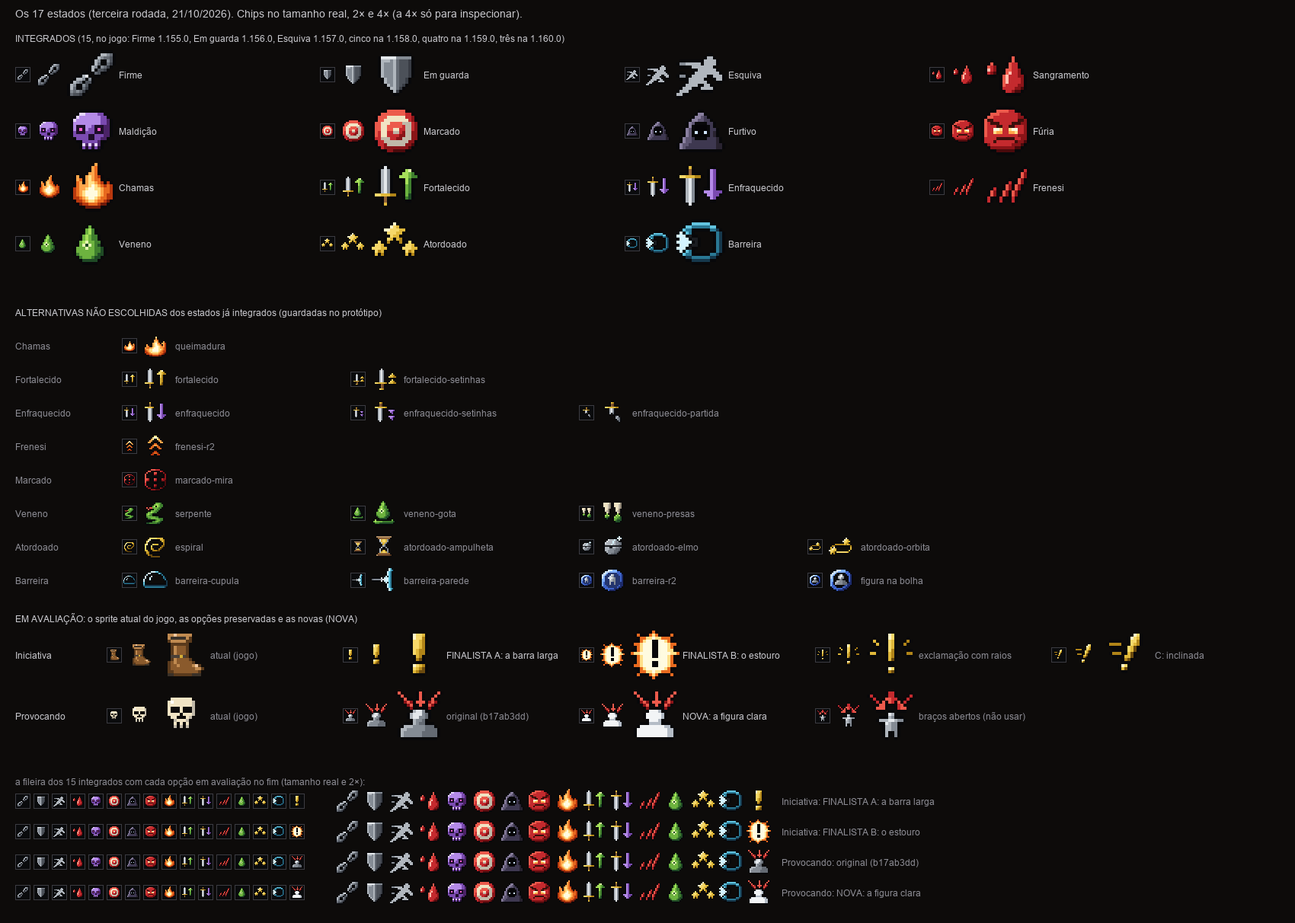
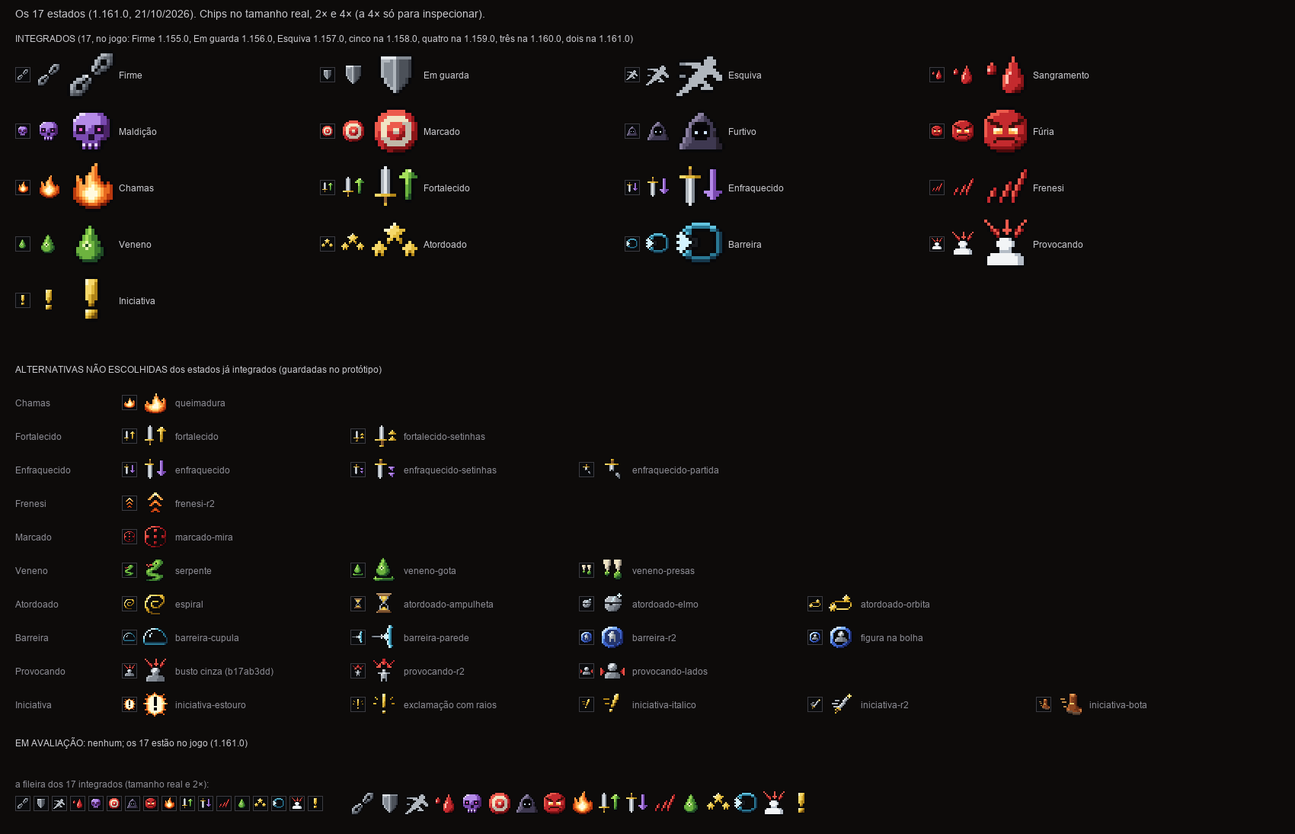
Provocando e Iniciativa no jogo (1.161.0): os 17 estados com ícone próprio
Entram sem retoque, cada um só no seu estado (o ESTADO de icones.js): o Provocando com a figura
branca do 9e4ec85a e as três setas da composição original, e a Iniciativa A da terceira rodada, a
exclamação de barra larga (69c6ded3; o estouro B fica como alternativa não escolhida). A caveira e a
bota ficam nos outros usos; regras, valores, durações, textos, medidas e interações não mudam.

As fontes vão para ferramentas/arte/aseprite/estado-provocando/ e estado-iniciativa/; o exportador
grava o 16 e o @2x idênticos, byte a byte, aos aprovados, e o "todas --conferir" dá tudo igual.

Conferido no jogo a 1920×945 com os arquivos de produção e saves temporários: o chip do Provocando no
esqueleto do Necromante, o selo dele pela Ordem da Fera do urso (junto do Em guarda), o chip da
Iniciativa e o selo da surpresa numa emboscada real do jogador (o cenário já existente; o roteiro só
clica em "Começar a luta"). Nada foi acrescentado ao jogo para fotografar.

Os 17 estados concluídos: 17 no catálogo, 17 no ESTADO, todos com o 16 e o @2x. A prancha final
estados-final.png mostra os 17 identificados (versão e origem) em tamanho real, 2× e 8×; a geral
mostra os integrados e as alternativas guardadas. Plano 23, continuidade e LEIA-MEs atualizados.
Testes (627), gabarito, pyflakes (o aviso conhecido) e fumaça passaram.

diff --git a/rpg/web/static/icones.js b/rpg/web/static/icones.js
@@ -31,7 +31,7 @@ const Icones = (() => {
     "contador-flechas": [16], "estado-firme": [16], "estado-guarda": [16], "estado-esquiva": [16],
     "estado-sangramento": [16], "estado-maldito": [16], "estado-marcado": [16], "estado-furtivo": [16], "estado-furia": [16],
     "estado-queimadura": [16], "estado-fortalecido": [16], "estado-enfraquecido": [16], "estado-frenesi": [16],
-    "estado-veneno": [16], "estado-atordoado": [16], "estado-barreira": [16],
+    "estado-veneno": [16], "estado-atordoado": [16], "estado-barreira": [16], "estado-provocando": [16], "estado-iniciativa": [16],
     "cota": [32, 40, 48, 64], "elmo": [32, 40, 48, 64], "escudo": [32, 40, 48, 64], "espada": [32, 40, 48, 64], "lugar-caverna": [32, 40],
     "lugar-cidadela": [32, 40], "lugar-floresta": [32, 40], "lugar-montanha": [32, 40], "lugar-pantano": [32, 40],
     "lugar-planicie": [32, 40], "lugar-ruinas": [32, 40], "lugar-vila": [32, 40], "maca": [32, 40, 48, 64],
@@ -166,17 +166,18 @@ const Icones = (() => {
   // duas línguas menores), o Fortalecido (a espada em pé e a seta verde subindo), o Enfraquecido (a espada para baixo e
   // a seta roxa descendo) e o Frenesi (as três garras vermelhas crescentes). Desde a 1.160.0: o Veneno (a gota verde
   // com o reflexo e a bolha), o Atordoado (três estrelinhas em arco, também no congelado) e a Barreira (a película de
-  // energia com o golpe estourando na borda). Só os estados: o "cadeado" do jogo fica nos outros papéis (o talento
-  // Armadilheiro, o bloqueio de vida, os motivos do mercado, o Salvar), o "escudo" no Erguer Escudo, nos talentos e no
-  // espaço vazio, a "folha" na Fúria da Natureza, no Pés Leves, no Antídoto e na Agilidade das celebrações, e a "gota",
-  // a "gota_roxa", a "gota_verde", a "flecha", o "olho", o "machado", a "chama", a "espada", o "osso", o "raio", a
-  // "estrela" e o "escudo_azul" nas habilidades, nos talentos, nos ferimentos, nos serviços e nos outros usos; os
-  // estados sem desenho aqui ficam com o sprite do catálogo do motor
+  // energia com o golpe estourando na borda). Desde a 1.161.0: o Provocando (a figura branca com as três setas
+  // vermelhas convergindo) e a Iniciativa (a exclamação dourada de barra larga). Só os estados: o "cadeado" do jogo fica
+  // nos outros papéis (o talento Armadilheiro, o bloqueio de vida, os motivos do mercado, o Salvar), o "escudo" no
+  // Erguer Escudo, nos talentos e no espaço vazio, a "folha" na Fúria da Natureza, no Pés Leves, no Antídoto e na
+  // Agilidade das celebrações, e a "gota", a "gota_roxa", a "gota_verde", a "flecha", o "olho", o "machado", a "chama",
+  // a "espada", o "osso", o "raio", a "estrela", o "escudo_azul", a "caveira" e a "bota" nas habilidades, nos talentos,
+  // nos ferimentos, nos serviços e nos outros usos
   const ESTADO = { firme: "estado-firme", guarda: "estado-guarda", esquiva: "estado-esquiva", sangramento: "estado-sangramento",
                    maldito: "estado-maldito", marcado: "estado-marcado", furtivo: "estado-furtivo", furia: "estado-furia",
                    queimadura: "estado-queimadura", fortalecido: "estado-fortalecido", enfraquecido: "estado-enfraquecido",
                    frenesi: "estado-frenesi", veneno: "estado-veneno", atordoado: "estado-atordoado",
-                   barreira: "estado-barreira" };
+                   barreira: "estado-barreira", provocando: "estado-provocando", iniciativa: "estado-iniciativa" };
 
   /** O arquivo de `peca` para mostrar em `lado` px: o tamanho igual ou o mais perto; maior que o maior, o dobro dele. */
   function arquivos(peca, lado) {

diff --git a/ferramentas/prototipos/hud/itens-lote-noite/estados_restantes/auxiliares/prancha.py b/ferramentas/prototipos/hud/itens-lote-noite/estados_restantes/auxiliares/prancha.py
@@ -11,7 +11,7 @@ import sys
 
 from PIL import Image, ImageDraw
 
-from comum import (ATUAL, CARVAO, FINAIS, LOTE, LOTES, TEXTO, TEXTO2, TITULO, abre, amplia, final, fonte,
+from comum import (ATUAL, CARVAO, FINAIS, STATIC, LOTE, LOTES, TEXTO, TEXTO2, TITULO, abre, amplia, final, fonte,
                    grade_px, proposta, sprite)
 
 CHIP = (10, 11, 13, 255)
@@ -26,7 +26,8 @@ def chip(out, d, im, x, y, borda=(60, 60, 66, 255)):
 NOVAS = ("gota", "r2")
 INTEGRADOS = ("sangramento", "maldito", "marcado", "furtivo", "furia",   # no jogo desde a 1.158.0
               "queimadura", "fortalecido", "enfraquecido", "frenesi",   # desde a 1.159.0
-              "veneno", "atordoado", "barreira")   # desde a 1.160.0   # as alternativas da segunda rodada (21/10/2026): estado-<id>-gota, estado-<id>-r2
+              "veneno", "atordoado", "barreira",   # desde a 1.160.0
+              "provocando", "iniciativa")   # desde a 1.161.0   # as alternativas da segunda rodada (21/10/2026): estado-<id>-gota, estado-<id>-r2
 
 
 def cartas(n, pre=""):
@@ -107,6 +108,11 @@ def folha_lote(n, pre=""):
     print(f"{pre}lote{n}.png", out.size)
 
 
+# no protótipo, estes nomes são candidatos antigos (no jogo, os arquivos com o mesmo nome são os aprovados)
+NOMES_PROTOTIPO = {"estado-veneno": "serpente", "estado-atordoado": "espiral", "estado-barreira": "figura na bolha",
+                   "estado-provocando": "busto cinza (b17ab3dd)", "estado-iniciativa": "exclamação com raios"}
+
+
 def folha_geral():
     """geral.png (atualizada na terceira rodada): os 17 estados em três grupos — os integrados (no jogo), as alternativas
     não escolhidas dos estados já resolvidos e as propostas em avaliação (os candidatos novos e os preservados)."""
@@ -119,19 +125,18 @@ def folha_geral():
                       ("Atordoado", ["estado-atordoado", "estado-atordoado-ampulheta", "estado-atordoado-elmo",
                                      "estado-atordoado-orbita"]),
                       ("Barreira", ["estado-barreira-cupula", "estado-barreira-parede", "estado-barreira-r2",
-                                    "estado-barreira"])]
-    avaliacao = [("Iniciativa", [("estado-iniciativa-cunha", "FINALISTA A: a barra larga"),
-                                 ("estado-iniciativa-estouro", "FINALISTA B: o estouro"),
-                                 ("estado-iniciativa", "exclamação com raios"), ("estado-iniciativa-italico", "C: inclinada")]),
-                 ("Provocando", [("estado-provocando", "original (b17ab3dd)"), ("estado-provocando-claro", "NOVA: a figura clara"),
-                                 ("estado-provocando-r2", "braços abertos (não usar)")])]
+                                    "estado-barreira"]),
+                      ("Provocando", ["estado-provocando", "estado-provocando-r2", "estado-provocando-lados"]),
+                      ("Iniciativa", ["estado-iniciativa-estouro", "estado-iniciativa", "estado-iniciativa-italico",
+                                      "estado-iniciativa-r2", "estado-iniciativa-bota"])]
+    avaliacao = []   # desde a 1.161.0 os 17 estão no jogo: nada em avaliação
     out = Image.new("RGBA", (1700, 2600), CARVAO)
     d = ImageDraw.Draw(out)
-    d.text((20, 10), "Os 17 estados (terceira rodada, 21/10/2026). Chips no tamanho real, 2× e 4× (a 4× só para inspecionar).",
+    d.text((20, 10), "Os 17 estados (1.161.0, 21/10/2026). Chips no tamanho real, 2× e 4× (a 4× só para inspecionar).",
            fill=TEXTO, font=f)
     y = 44
     d.text((20, y), f"INTEGRADOS ({len(integrados)}, no jogo: Firme 1.155.0, Em guarda 1.156.0, Esquiva 1.157.0, "
-                    "cinco na 1.158.0, quatro na 1.159.0, três na 1.160.0)", fill=TEXTO, font=f2)
+                    "cinco na 1.158.0, quatro na 1.159.0, três na 1.160.0, dois na 1.161.0)", fill=TEXTO, font=f2)
     y += 44
     for j, (t, im) in enumerate(integrados):
         x, yy = 20 + (j % 4) * 400, y + (j // 4) * 74
@@ -146,14 +151,15 @@ def folha_geral():
         d.text((20, y + 4), t, fill=TEXTO2, font=f2)
         for j, ident in enumerate(ids):
             im, x = proposta(ident), 160 + j * 300
-            if ident in ("estado-veneno", "estado-atordoado", "estado-barreira"):
-                ident = {"estado-veneno": "serpente", "estado-atordoado": "espiral", "estado-barreira": "figura na bolha"}[ident]
+            if ident in NOMES_PROTOTIPO:
+                ident = NOMES_PROTOTIPO[ident]
             chip(out, d, im, x, y)
             out.alpha_composite(amplia(im, 2), (x + 28, y - 6))
             d.text((x + 70, y + 4), ident.replace("estado-", ""), fill=TEXTO2, font=f2)
         y += 44
     y += 10
-    d.text((20, y), "EM AVALIAÇÃO: o sprite atual do jogo, as opções preservadas e as novas (NOVA)", fill=TEXTO, font=f2)
+    d.text((20, y), "EM AVALIAÇÃO: " + ("nenhum; os 17 estão no jogo (1.161.0)" if not avaliacao else
+                    "o sprite atual do jogo, as opções preservadas e as novas (NOVA)"), fill=TEXTO, font=f2)
     y += 44
     for t, ops in avaliacao:
         k = next(c for c, tt in TITULO.items() if tt == t)
@@ -167,9 +173,14 @@ def folha_geral():
             d.text((x + 136, y + 4), rot[:26], fill=TEXTO if rot.startswith(("NOVA", "FINALISTA")) else TEXTO2, font=f2)
         y += 80
     y += 10
-    d.text((20, y), f"a fileira dos {len(integrados)} integrados com cada opção em avaliação no fim (tamanho real e 2×):",
-           fill=TEXTO2, font=f2)
+    d.text((20, y), f"a fileira dos {len(integrados)} integrados (tamanho real e 2×)" + (", com cada opção em avaliação "
+                    "no fim:" if avaliacao else ":"), fill=TEXTO2, font=f2)
     y += 22
+    if not avaliacao:
+        for j, (_, im) in enumerate(integrados):
+            chip(out, d, im, 20 + j * 24, y)
+            out.alpha_composite(amplia(im, 2), (460 + j * 36, y - 6))
+        y += 40
     for t, ops in avaliacao:
         for ident, rot in ops:
             if not rot.startswith(("NOVA", "FINALISTA", "original")):
@@ -209,6 +220,12 @@ INTEGRACOES = {
                ("Barreira ao lado do Em guarda", "rodada3-barreira/barreira-heroi-guarda", "chip-heroi-barreira-guarda")],
         selos=[("Veneno (Flecha Envenenada)", "veneno"), ("Atordoado (Prisão de Gelo, congelado)", "atordoado"),
                ("Barreira (Barreira Arcana)", "barreira")]),
+    "1.161.0": dict(
+        titulo="Provocando e Iniciativa", sem_selo="os dois têm selo",
+        pares=[("Provocando (o esqueleto do Necromante)", "lote5/servo-provocando", "chip-servo-provocando"),
+               ("Iniciativa", "lote6/heroi-iniciativa", "chip-heroi-iniciativa")],
+        selos=[("Provocando (a Ordem da Fera do urso, com o Em guarda)", "provocando"),
+               ("Iniciativa (a emboscada do jogador, ao vivo)", "iniciativa")]),
 }
 
 RODADA3 = {   # a terceira rodada (21/10/2026): o estado, as opções (nome do arquivo, rótulo) e a pasta das fotos
@@ -283,6 +300,58 @@ def folha_estado(k):
     print(f"rodada3-{k}.png", out.size)
 
 
+ORIGEM = {   # os 17 integrados: versão, de onde veio e o que é
+    "firme": ("1.155.0", "R2 (bc849647)", "a corrente rompida"), "guarda": ("1.156.0", "G1 (118725b6)", "o escudo de ferro"),
+    "esquiva": ("1.157.0", "E6 (df6a433d)", "a figura em movimento"),
+    "sangramento": ("1.158.0", "b17ab3dd", "as duas gotas"), "maldito": ("1.158.0", "b17ab3dd", "a caveira roxa"),
+    "marcado": ("1.158.0", "b17ab3dd", "o alvo de anéis"), "furtivo": ("1.158.0", "b17ab3dd", "o capuz"),
+    "furia": ("1.158.0", "b17ab3dd", "o rosto de raiva"),
+    "queimadura": ("1.159.0", "R2 (805c238d)", "a chama dominante"), "fortalecido": ("1.159.0", "R2 (39f85d92)", "espada e seta verde"),
+    "enfraquecido": ("1.159.0", "R2 (805c238d)", "espada e seta roxa"), "frenesi": ("1.159.0", "b17ab3dd", "as três garras"),
+    "veneno": ("1.160.0", "rodada 3 (69c6ded3)", "a gota verde"), "atordoado": ("1.160.0", "rodada 3 (33f97dde)", "as três estrelinhas"),
+    "barreira": ("1.160.0", "rodada 3 (33f97dde)", "o golpe na película"),
+    "provocando": ("1.161.0", "ajuste (9e4ec85a)", "a figura e as setas"), "iniciativa": ("1.161.0", "rodada 3 (69c6ded3)", "a exclamação larga"),
+}
+
+
+def folha_final():
+    """estados-final.png: os 17 ícones de estado efetivamente no jogo (rpg/web/static/hud/icones/estado-<id>-16.png),
+    identificados pelo nome, a versão e a origem; em chips no tamanho real, a 2× e a 8× sem suavização, e a fileira dos 17."""
+    import re
+    texto = (STATIC / "icones.js").read_text(encoding="utf-8")
+    papel = dict(re.findall(r'(\w+): "estado-([\w-]+)"', re.search(r"const ESTADO = \{(.*?)\};", texto, re.S).group(1)))
+    assert sorted(papel) == sorted(ORIGEM) and all(papel[k] == k for k in papel), papel
+    f, f2 = fonte(14), fonte(12)
+    ids = [k for k, _ in FINAIS] + list(INTEGRADOS)
+    out = Image.new("RGBA", (1600, 1400), CARVAO)
+    d = ImageDraw.Draw(out)
+    d.text((20, 10), f"Os {len(ids)} estados no jogo (1.161.0): os arquivos de produção, pelo papel ESTADO de icones.js. "
+                     "Chip no tamanho real, 2× e 8× sem suavização.", fill=TEXTO, font=f)
+    y = 46
+    for j, k in enumerate(ids):
+        im = final(k)
+        x, yy = 20 + (j % 3) * 520, y + (j // 3) * 150
+        chip(out, d, im, x, yy + 40)
+        out.alpha_composite(amplia(im, 2), (x + 28, yy + 34))
+        out.alpha_composite(grade_px(im, 8), (x + 72, yy))
+        v, o, c = ORIGEM[k]
+        nome = dict(FINAIS).get(k) or TITULO[k]
+        d.text((x + 72 + 128 + 14, yy + 20), nome, fill=TEXTO, font=f)
+        d.text((x + 72 + 128 + 14, yy + 44), c, fill=TEXTO2, font=f2)
+        d.text((x + 72 + 128 + 14, yy + 64), f"{v} · {o}", fill=TEXTO2, font=f2)
+        d.text((x + 72 + 128 + 14, yy + 84), f"estado-{k}-16.png", fill=TEXTO2, font=f2)
+    y += ((len(ids) + 2) // 3) * 150 + 10
+    d.text((20, y), "a fileira dos 17, como numa carta cheia (tamanho real em chips e 2×):", fill=TEXTO2, font=f2)
+    y += 24
+    for j, k in enumerate(ids):
+        chip(out, d, final(k), 20 + j * 24, y)
+        out.alpha_composite(amplia(final(k), 2), (20 + j * 40, y + 32))
+    y += 80
+    out = out.crop((0, 0, 1600, y))
+    out.save(LOTE / "estados-final.png")
+    print("estados-final.png", out.size)
+
+
 def folha_integracao(versao="1.158.0"):
     """integracao-<versão>.png: os aprovados no jogo, antes (o sprite) × depois (os arquivos de produção), na carta a
     1920×945 com os mesmos dados (as fotos "atual" dos lotes × capturas/integracao-<versão>/), e os selos de chegada."""
@@ -347,7 +416,9 @@ def folha_gira():
 
 
 if __name__ == "__main__":
-    if sys.argv[1] == "rodada3":   # rodada3 <estado>
+    if sys.argv[1] == "final":
+        folha_final()
+    elif sys.argv[1] == "rodada3":   # rodada3 <estado>
         folha_estado(sys.argv[2])
     elif sys.argv[1] == "gira":
         folha_gira()

diff --git a/rpg/__init__.py b/rpg/__init__.py
@@ -1,3 +1,3 @@
 """The Unquiet (antes Crônicas da Fenda) — um RPG de texto offline com eventos procedurais."""
 
-__version__ = "1.160.0"
+__version__ = "1.161.0"

diff --git a/roadmapIDEIAS/23-PLANO-DE-ARTE-INTERFACE-E-COMBATE.md b/roadmapIDEIAS/23-PLANO-DE-ARTE-INTERFACE-E-COMBATE.md
@@ -852,11 +852,11 @@ talentos com o mesmo `icone`, e outros usos na interface): trocar o desenho de u
 | Fortalecido (`fortalecido`, +) | dano causado +v% | `estado-fortalecido` (próprio) | nenhum (a `espada` ficou em: Investida; Contra-ataque, Golpe Brutal; o elemento físico e outros) | **final** (1.159.0; a R2 do `39f85d92`, sem retoque) |
 | Fúria (`furia`, +) | dano causado +v% (soma com o Fortalecido) | `estado-furia` (próprio) | nenhum (o `machado` ficou em: Redemoinho) | **final** (1.158.0; a proposta do `b17ab3dd`, sem retoque) |
 | Frenesi (`frenesi`, +) | cada abate soma dano até o fim da luta | `estado-frenesi` (próprio) | nenhum (o `raio` ficou em: Julgamento Divino) | **final** (1.159.0; as garras do `b17ab3dd`, sem retoque) |
-| Iniciativa (`iniciativa`, +) | o primeiro golpe deste turno sai +v% mais forte | `bota` | a reserva dos pés (a bota de couro) | proposta: o candidato do `b17ab3dd` e a alternativa da rodada 2 (`estados_restantes/`, 21/10), em avaliação |
+| Iniciativa (`iniciativa`, +) | o primeiro golpe deste turno sai +v% mais forte | `estado-iniciativa` (próprio) | nenhum (a `bota` ficou em: a reserva dos pés (a bota de couro)) | **final** (1.161.0; a barra larga da terceira rodada, `69c6ded3`; o estouro guardado como não escolhido, sem retoque) |
 | Esquiva (`esquiva`, +) | +v na chance de esquiva, até o teto (Passo Ágil: +30% por 2 turnos; Desaparecer: +50% por 1) | `estado-esquiva` (próprio) | nenhum (a `folha` ficou na Fúria da Natureza, no Pés Leves, no Antídoto e na Agilidade das celebrações e do Inventário) | **final** (a E6 corrigida, 1.157.0; a origem e a licença da referência pendentes; as tentativas E1 a E5 no protótipo) |
 | Barreira (`barreira`, +) | absorve v de dano | `estado-barreira` (próprio) | nenhum (o `escudo_azul` ficou em: Barreira Arcana) | **final** (1.160.0; o golpe na película da terceira rodada, `33f97dde`; a cúpula e a parede guardadas como não escolhidas, sem retoque) |
 | Furtivo (`furtivo`, +) | o próximo ataque é crítico garantido | `estado-furtivo` (próprio) | nenhum (o `olho` ficou em: Marcar Presa; Canalização, Olho de Águia; a névoa e outros) | **final** (1.158.0; a proposta do `b17ab3dd`, sem retoque) |
-| Provocando (`provocando`, +) | os inimigos atacam ele | `caveira` | Execução, Fúria Cega; Assassino, Colheita, Golpe Sombrio, Imortal, Legião de Ossos, Rei dos Mortos; derrota, fome e outros | proposta: o candidato do `b17ab3dd` e a alternativa da rodada 2 (`estados_restantes/`, 21/10), em avaliação |
+| Provocando (`provocando`, +) | os inimigos atacam ele | `estado-provocando` (próprio) | nenhum (a `caveira` ficou em: Execução, Fúria Cega; Assassino, Colheita, Golpe Sombrio, Imortal, Legião de Ossos, Rei dos Mortos; derrota, fome e outros) | **final** (1.161.0; o busto do `b17ab3dd` com a figura branca do `9e4ec85a`, sem retoque) |
 | Firme (`firme`, +) | depois de um atordoamento ou congelamento, não pode ser atordoado nem congelado de novo naquele turno | `estado-firme` (próprio) | nenhum (o `cadeado` ficou nos outros papéis) | **final** (R2, 1.155.0) |
 | Veneno (`veneno`, −) | dano por turno | `estado-veneno` (próprio) | nenhum (a `gota_verde` ficou em: Flecha Envenenada; os serviços) | **final** (1.160.0; a gota sem a poça da terceira rodada, `69c6ded3`, sem retoque) |
 | Sangramento (`sangramento`, −) | dano por turno | `estado-sangramento` (próprio) | nenhum (a `gota` ficou em: Sede de Sangue; Pacto Sombrio, Pontas Venenosas, Sede Insaciável; os ferimentos e os serviços) | **final** (1.158.0; a proposta do `b17ab3dd`, sem retoque) |
@@ -871,7 +871,7 @@ talentos com o mesmo `icone`, e outros usos na interface): trocar o desenho de u
 `geral.png` com os 17, as tentativas guardadas e a avaliação no `LEIA-ME.md` da pasta). **Aprovados por Jean e
 integrados na 1.158.0, sem retoque:** Sangramento, Maldição, Marcado, Furtivo e Fúria (o chip e o selo; o Marcado não
 tem selo de chegada no jogo, porque as duas fontes dele aplicam o estado direto). Os outros nove seguem no protótipo,
-numa segunda rodada de ajustes: as alternativas novas ao lado dos candidatos preservados (as folhas `rodada2-*.png` e a prancha `geral.png`, 21/10/2026), em avaliação. **Integrados na 1.159.0, sem retoque:** as Chamas (R2), o Fortalecido (R2), o Enfraquecido (R2) e o Frenesi (as garras da primeira rodada). O Fortalecido e o Frenesi não têm selo de chegada no jogo (o Grito de Guerra dispensa o selo; o uivo, o grito dos inimigos e o talento aplicam direto). **Integrados na 1.160.0, sem retoque (a terceira rodada):** o Veneno (a gota sem a poça), o Atordoado (as três estrelinhas, estático, também no congelado) e a Barreira (o golpe na película); os três com selo de chegada. Em avaliação: a Iniciativa (finalistas A, a barra larga, e B, o estouro) e o Provocando (o busto do `b17ab3dd` com o acabamento da figura, no protótipo).
+numa segunda rodada de ajustes: as alternativas novas ao lado dos candidatos preservados (as folhas `rodada2-*.png` e a prancha `geral.png`, 21/10/2026), em avaliação. **Integrados na 1.159.0, sem retoque:** as Chamas (R2), o Fortalecido (R2), o Enfraquecido (R2) e o Frenesi (as garras da primeira rodada). O Fortalecido e o Frenesi não têm selo de chegada no jogo (o Grito de Guerra dispensa o selo; o uivo, o grito dos inimigos e o talento aplicam direto). **Integrados na 1.160.0, sem retoque (a terceira rodada):** o Veneno (a gota sem a poça), o Atordoado (as três estrelinhas, estático, também no congelado) e a Barreira (o golpe na película); os três com selo de chegada. **Integrados na 1.161.0, sem retoque:** o Provocando (a figura branca do `9e4ec85a` com as três setas da composição original) e a Iniciativa (a barra larga; o estouro guardado como não escolhido). **Os 17 estados do catálogo estão concluídos** (conferido: 17 em `rpg/estados.py`, 17 no `ESTADO` de `icones.js`, todos com o 16 e o @2x); a prancha final em `estados_restantes/estados-final.png`.
 
 **Primeiro par de estados (20/10/2026):** Em guarda (G1, o escudo de ferro), **integrado na 1.156.0**; Esquiva
 (E1, a rajada de vento, recusada por lembrar um símbolo meteorológico; E2, os crescentes, recusada por não comunicar

diff --git a/ferramentas/prototipos/hud/itens-lote-noite/estados_restantes/LEIA-ME.md b/ferramentas/prototipos/hud/itens-lote-noite/estados_restantes/LEIA-ME.md
@@ -405,3 +405,24 @@ o sprite atual, o original e o ajuste, junto dos 15 estados do jogo, a 12× e na
 modelada; as setas vermelhas continuam à parte. O que não muda (de propósito, por ser a composição aprovada para
 retomar): as setas ainda formam um grupo vermelho denso no alto, e a figura em busto continua parecida com a da
 Barreira de antes (que saiu do jogo nesta mesma rodada; a Barreira integrada não tem figura).
+
+## A integração da 1.161.0: Provocando e Iniciativa — os 17 estados concluídos
+
+**Decisão de Jean (21/10/2026):** o Provocando com a figura branca do `9e4ec85a` (`estado-provocando-claro`, as três
+setas da composição original) e a Iniciativa A da terceira rodada (`estado-iniciativa-cunha`, a barra larga), sem
+retoques; o estouro B fica como alternativa não escolhida. As fontes foram copiadas sem mudança, com o nome do estado,
+para `ferramentas/arte/aseprite/estado-<id>/`; o exportador grava os PNGs idênticos, byte a byte, aos de `proposta/`.
+
+**Conferido no jogo** a 1920×945 (`MODOS=atual`, as situações `integracao-1.161.0`; as fotos em
+`capturas/integracao-1.161.0/`): o chip do Provocando no esqueleto do Necromante; o selo dele pela Ordem da Fera do urso
+do Patrulheiro (o motor manda o aviso com a animação do rugido, junto do Em guarda; o Erguer Servo aplica direto e não
+tem selo); o chip da Iniciativa; e o selo dela numa emboscada real do jogador (o cenário `tutorial` com `EMBOSCADA=jogador`
+e `LUTA_APOS_ESCOLHA=1`, que já existiam: o roteiro só clica em "Começar a luta" para ver a surpresa ao vivo, campo
+`clicar` das situações). Nada foi acrescentado ao jogo para fotografar. Sem erro nem aviso no console. Folha:
+`integracao-1.161.0.png`.
+
+**Os 17:** conferido que o catálogo (`rpg/estados.py`) tem 17 estados, o `ESTADO` de `icones.js` os 17, e todos têm o
+16 e o @2x. A prancha final `estados-final.png` (`prancha.py final`) mostra os 17 ícones de produção identificados
+(nome, o que é, a versão e a origem), em chip no tamanho real, a 2× e a 8× sem suavização, e a fileira dos 17; a geral
+`geral.png` passa a mostrar os 17 integrados e as alternativas não escolhidas (nada em avaliação). Nenhuma alternativa
+nem registro de origem foi apagado.

diff --git a/ferramentas/arte/aseprite/LEIA-ME.md b/ferramentas/arte/aseprite/LEIA-ME.md
@@ -62,6 +62,8 @@ nada daqui: só os PNGs exportados para `rpg/web/static/hud/icones/`.
 | estado-veneno (o ícone do estado Veneno, `Icones.estado("veneno")`): a gota verde sem a poça (a `estado-veneno-gota2` da terceira rodada) | `estado-veneno/estado-veneno-16.aseprite` (só o 16) | gota, contorno | 1.160.0 |
 | estado-atordoado (o ícone do estado Atordoado, também o congelado, `Icones.estado("atordoado")`): as três estrelinhas em arco (a `estado-atordoado-estrelas`) | `estado-atordoado/estado-atordoado-16.aseprite` (só o 16) | estrelas, contorno | 1.160.0 |
 | estado-barreira (o ícone do estado Barreira, `Icones.estado("barreira")`): o golpe na película (a `estado-barreira-impacto`) | `estado-barreira/estado-barreira-16.aseprite` (só o 16) | pelicula, impacto, contorno | 1.160.0 |
+| estado-provocando (o ícone do estado Provocando, `Icones.estado("provocando")`): a figura branca com as três setas vermelhas convergindo (a `estado-provocando-claro`, o acabamento do busto do `b17ab3dd`) | `estado-provocando/estado-provocando-16.aseprite` (só o 16) | figura, setas, contorno | 1.161.0 |
+| estado-iniciativa (o ícone do estado Iniciativa, `Icones.estado("iniciativa")`): a exclamação dourada de barra larga (a `estado-iniciativa-cunha` da terceira rodada) | `estado-iniciativa/estado-iniciativa-16.aseprite` (só o 16) | exclamacao, contorno | 1.161.0 |
 | martelo (o Martelo do Guerreiro): **só o 40 e o 48**; o 32 e o 64 são a grade de `rpg/web/static/desenhos.js` | `martelo/martelo-40.aseprite`, `-48` | cabo, empunhadura, pomo, colar, cabeca, contorno | 1.149.0 |
 | diadema (o Diadema do Mago, também a Coroa dos Afogados por ora; o desenho `coroa`) | `diadema/diadema-32.aseprite`, `-40`, `-48`; **o 64 é o 32 ampliado 2×** | aro, placa, gema, contorno | 1.144.0 |
 | sandalia (a Sandália do Mago, o par) | `sandalia/sandalia-32.aseprite`, `-40`, `-48`; **o 64 é o 32 ampliado 2×** | tras_sola, tras_palmilha, tras_tiras, frente_sola, frente_palmilha, frente_tiras, contorno | 1.142.0 |

diff --git a/roadmapIDEIAS/00-COMECE-AQUI.md b/roadmapIDEIAS/00-COMECE-AQUI.md
@@ -5363,3 +5363,18 @@ Tudo no protótipo (`ferramentas/prototipos/hud/LEIA-ME.md`, as seções de mesm
   carta a 1920×945) e a prancha `geral.png`.
 - **Continua em avaliação:** Provocando (o ajuste) e Iniciativa (as finalistas A, a barra larga, e B, o estouro, sem
   mudança). A versão continua 1.160.0. Nenhuma outra etapa começada.
+
+### 21/10/2026 (data do computador local) — Provocando e Iniciativa no jogo (1.161.0): os 17 estados concluídos
+
+- **Decisão de Jean:** integrar sem retoques o Provocando (a figura branca do `9e4ec85a`, com as três setas da
+  composição original) e a Iniciativa (a opção A da terceira rodada, a exclamação de barra larga; o estouro B fica como
+  alternativa não escolhida).
+- **Feito:** as fontes em `ferramentas/arte/aseprite/estado-provocando/` e `estado-iniciativa/`; os PNGs de 16 e @2x
+  idênticos byte a byte aos aprovados (`todas --conferir`: tudo igual); o papel `ESTADO` em `icones.js`; a `caveira` e a
+  `bota` nos outros usos. Conferido no jogo a 1920×945 com os arquivos de produção e saves temporários: o chip do
+  Provocando no esqueleto do Necromante e no urso do Patrulheiro, o selo pela Ordem da Fera (o urso, junto do Em
+  guarda), o chip da Iniciativa e o selo da surpresa numa emboscada real (`EMBOSCADA=jogador`, a luta começada com a
+  página aberta). Nenhum aviso ou comportamento foi acrescentado para as fotos.
+- **Os 17 estados concluídos:** 17 no catálogo (`rpg/estados.py`), 17 no `ESTADO`, todos com arquivo; a prancha final
+  `estados_restantes/estados-final.png` (os 17, identificados, com a versão e a origem) e a geral `geral.png`.
+- **Continua:** o bloco 1E segue com inimigos, pets, caminhos e minimapa, **não começados**; a versão é 1.161.0.

diff --git a/docs/ARQUITETURA.md b/docs/ARQUITETURA.md
@@ -90,8 +90,10 @@ pacote: `from rpg.combate import Combate`.
   (`estado-enfraquecido-16.png`) e o Frenesi (`estado-frenesi-16.png`), enquanto os sprites `chama`, `espada`, `osso` e
   `raio` ficam nos outros usos; desde a 1.160.0, o Veneno (`estado-veneno-16.png`, a gota verde), o Atordoado
   (`estado-atordoado-16.png`, as três estrelinhas, também no congelado) e a Barreira (`estado-barreira-16.png`, o golpe
-  na película), enquanto os sprites `gota_verde`, `estrela` e `escudo_azul` ficam nos outros usos. Provocando e
-  Iniciativa seguem com o sprite do catálogo. A flecha ao lado da
+  na película), enquanto os sprites `gota_verde`, `estrela` e `escudo_azul` ficam nos outros usos. desde a
+  1.161.0, o Provocando (`estado-provocando-16.png`, a figura branca com as setas convergindo) e a Iniciativa
+  (`estado-iniciativa-16.png`, a exclamação de barra larga), enquanto a `caveira` e a `bota` ficam nos outros usos. Os
+  17 estados do catálogo (`rpg/estados.py`) têm ícone próprio desde a 1.161.0. A flecha ao lado da
   quantidade de flechas na carta do Arqueiro também tem papel próprio (`Icones.contadorFlechas`, 1.155.0); o sprite
   `flecha` fica no custo das habilidades, na orientação, no elemento "à distância" e nos projéteis.
 - Acúmulo de bônus, como nos jogos do gênero: **a mesma fonte renova** (aplicar o mesmo estado de novo fica com o

diff --git a/ferramentas/prototipos/hud/itens-lote-noite/LEIA-ME.md b/ferramentas/prototipos/hud/itens-lote-noite/LEIA-ME.md
@@ -3759,3 +3759,10 @@ estão em `estados_restantes/LEIA-ME.md`; as folhas em `estados_restantes/lote<n
 estados (o chip e o selo). As fontes copiadas sem mudança para `ferramentas/arte/aseprite/estado-<id>/`; o
 `exportar_aseprite.py` grava os PNGs de 16 e @2x idênticos, byte a byte, aos aprovados. O registro da conferência no
 jogo e a folha em `estados_restantes/` (`integracao-1.158.0.png`, `capturas/integracao-1.158.0/`).
+
+### Os 17 estados no jogo (1.155.0 a 1.161.0)
+
+Firme (1.155.0), Em guarda (1.156.0), Esquiva (1.157.0); Sangramento, Maldição, Marcado, Furtivo e Fúria (1.158.0);
+Chamas, Fortalecido, Enfraquecido e Frenesi (1.159.0); Veneno, Atordoado e Barreira (1.160.0); Provocando e Iniciativa
+(1.161.0). As rodadas, as alternativas e as conferências estão em `estados_restantes/LEIA-ME.md`; a prancha final em
+`estados_restantes/estados-final.png`.
